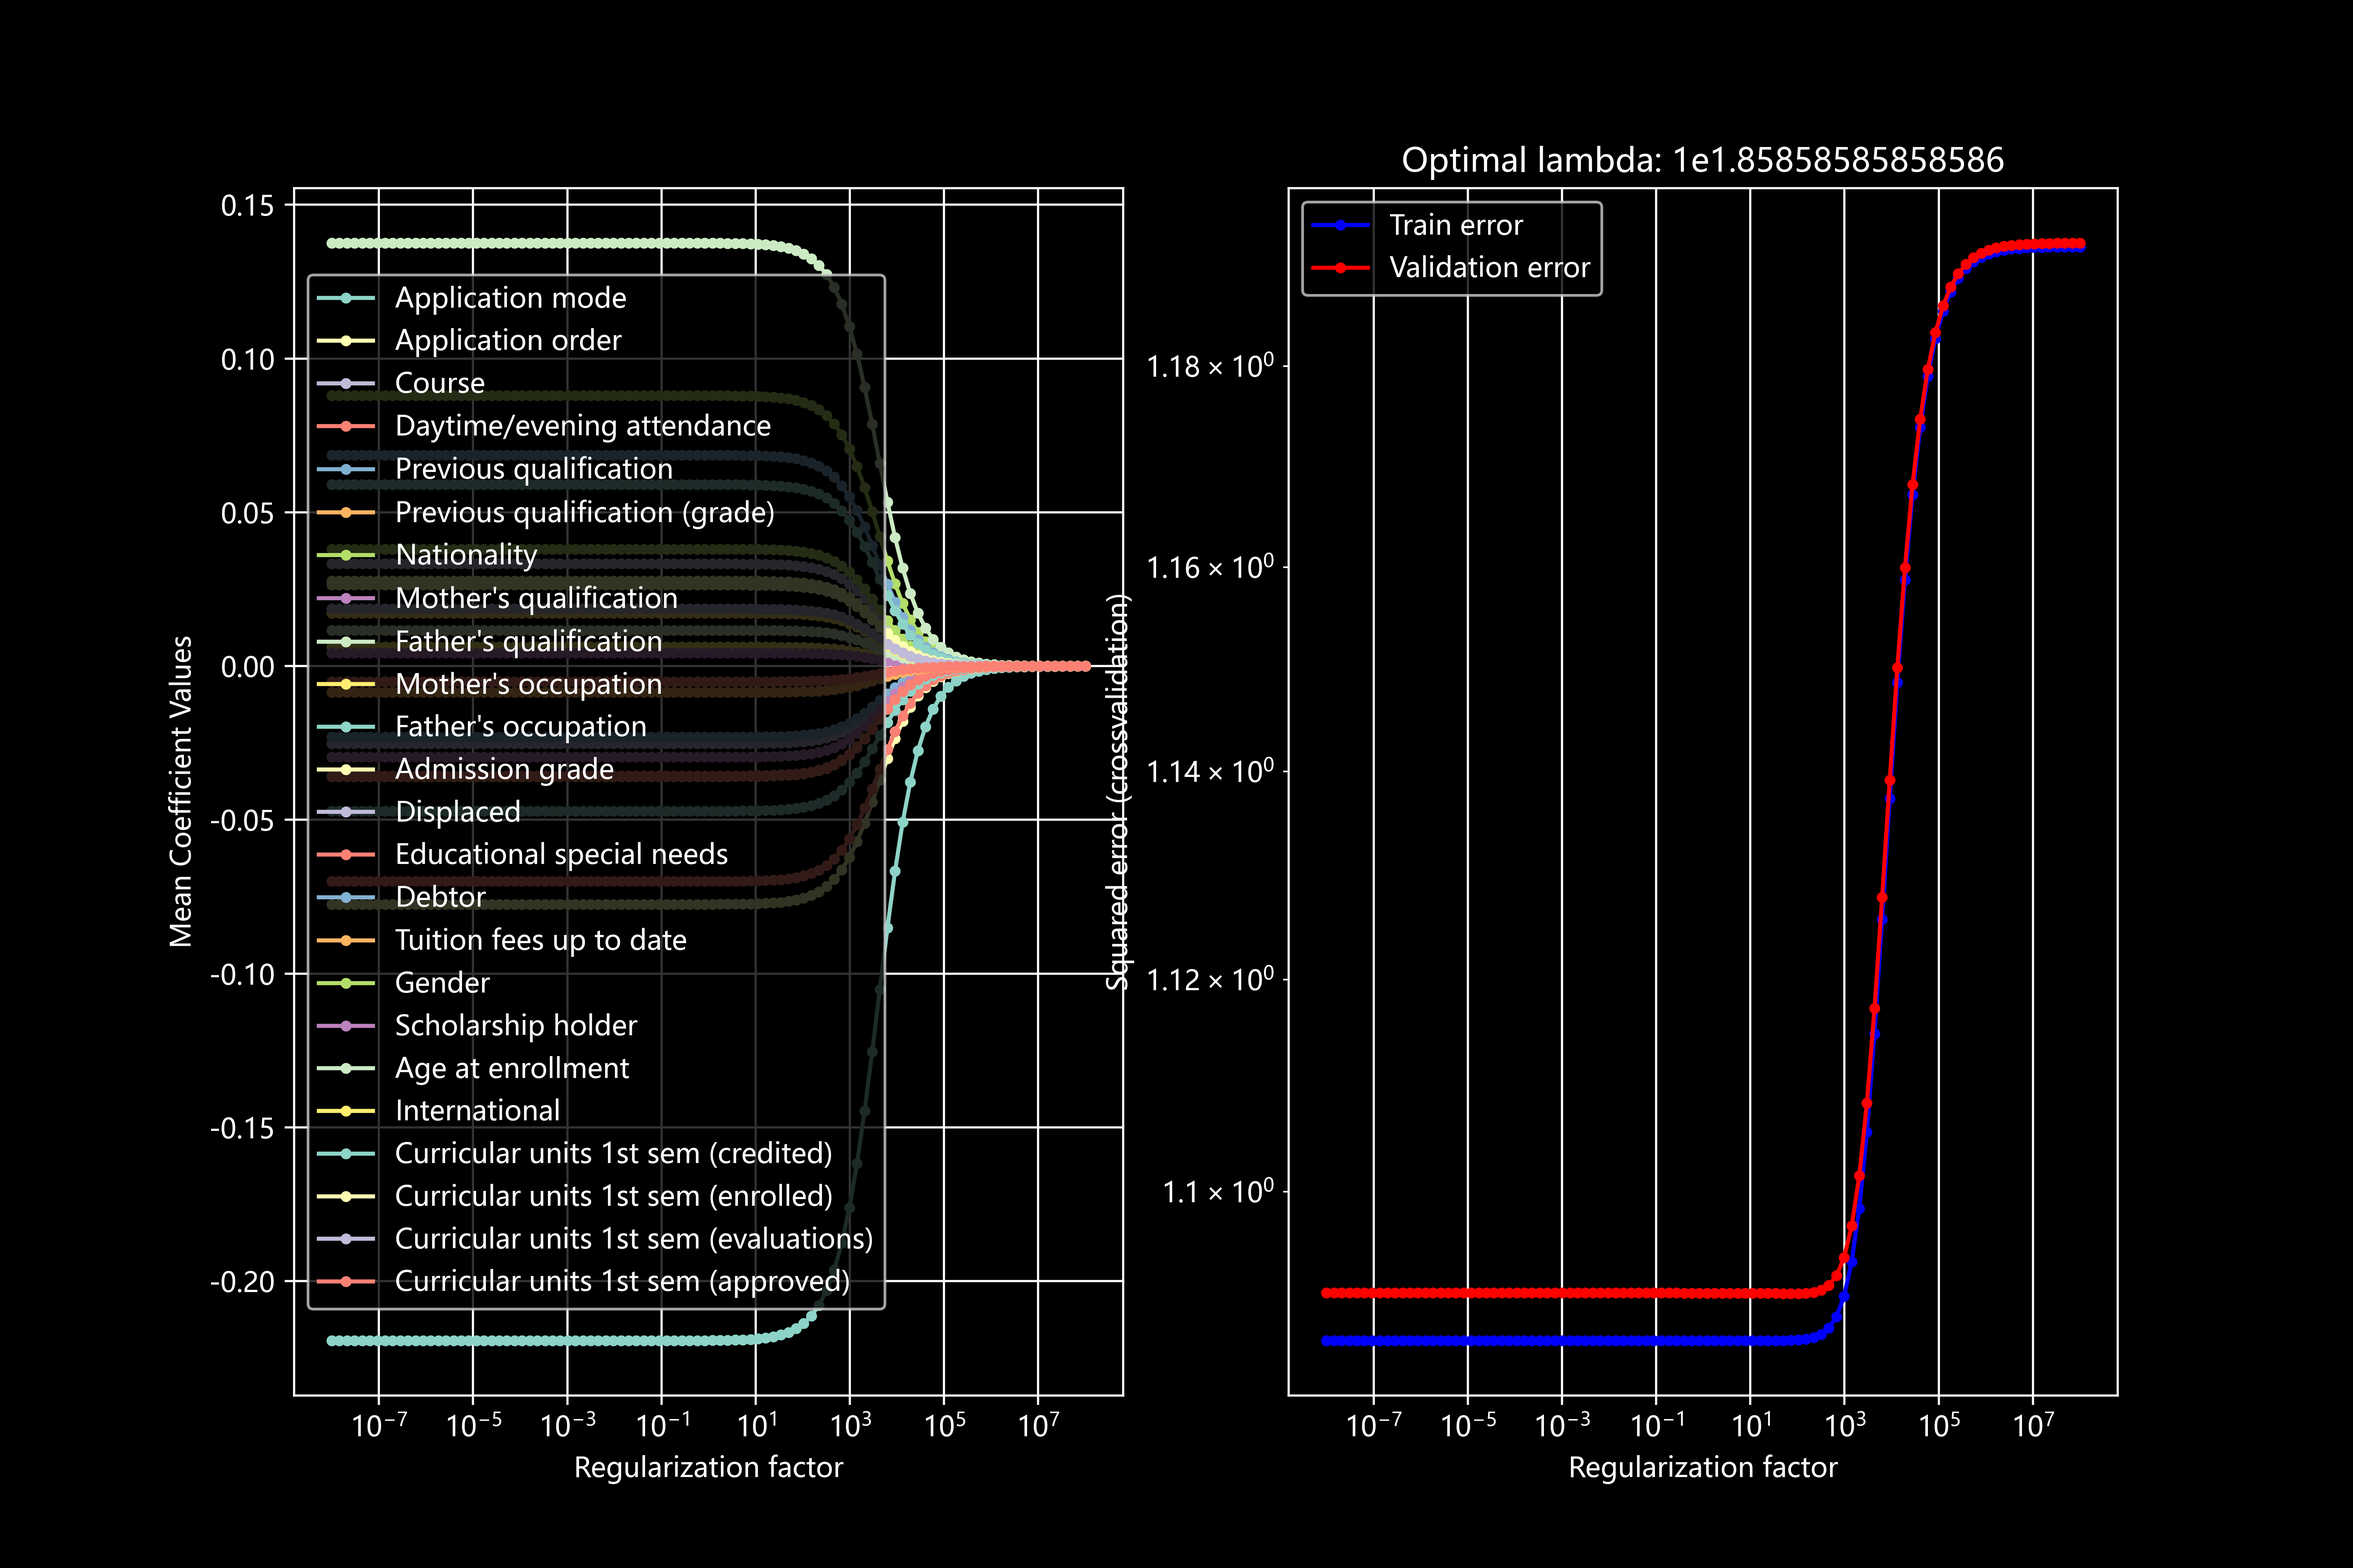
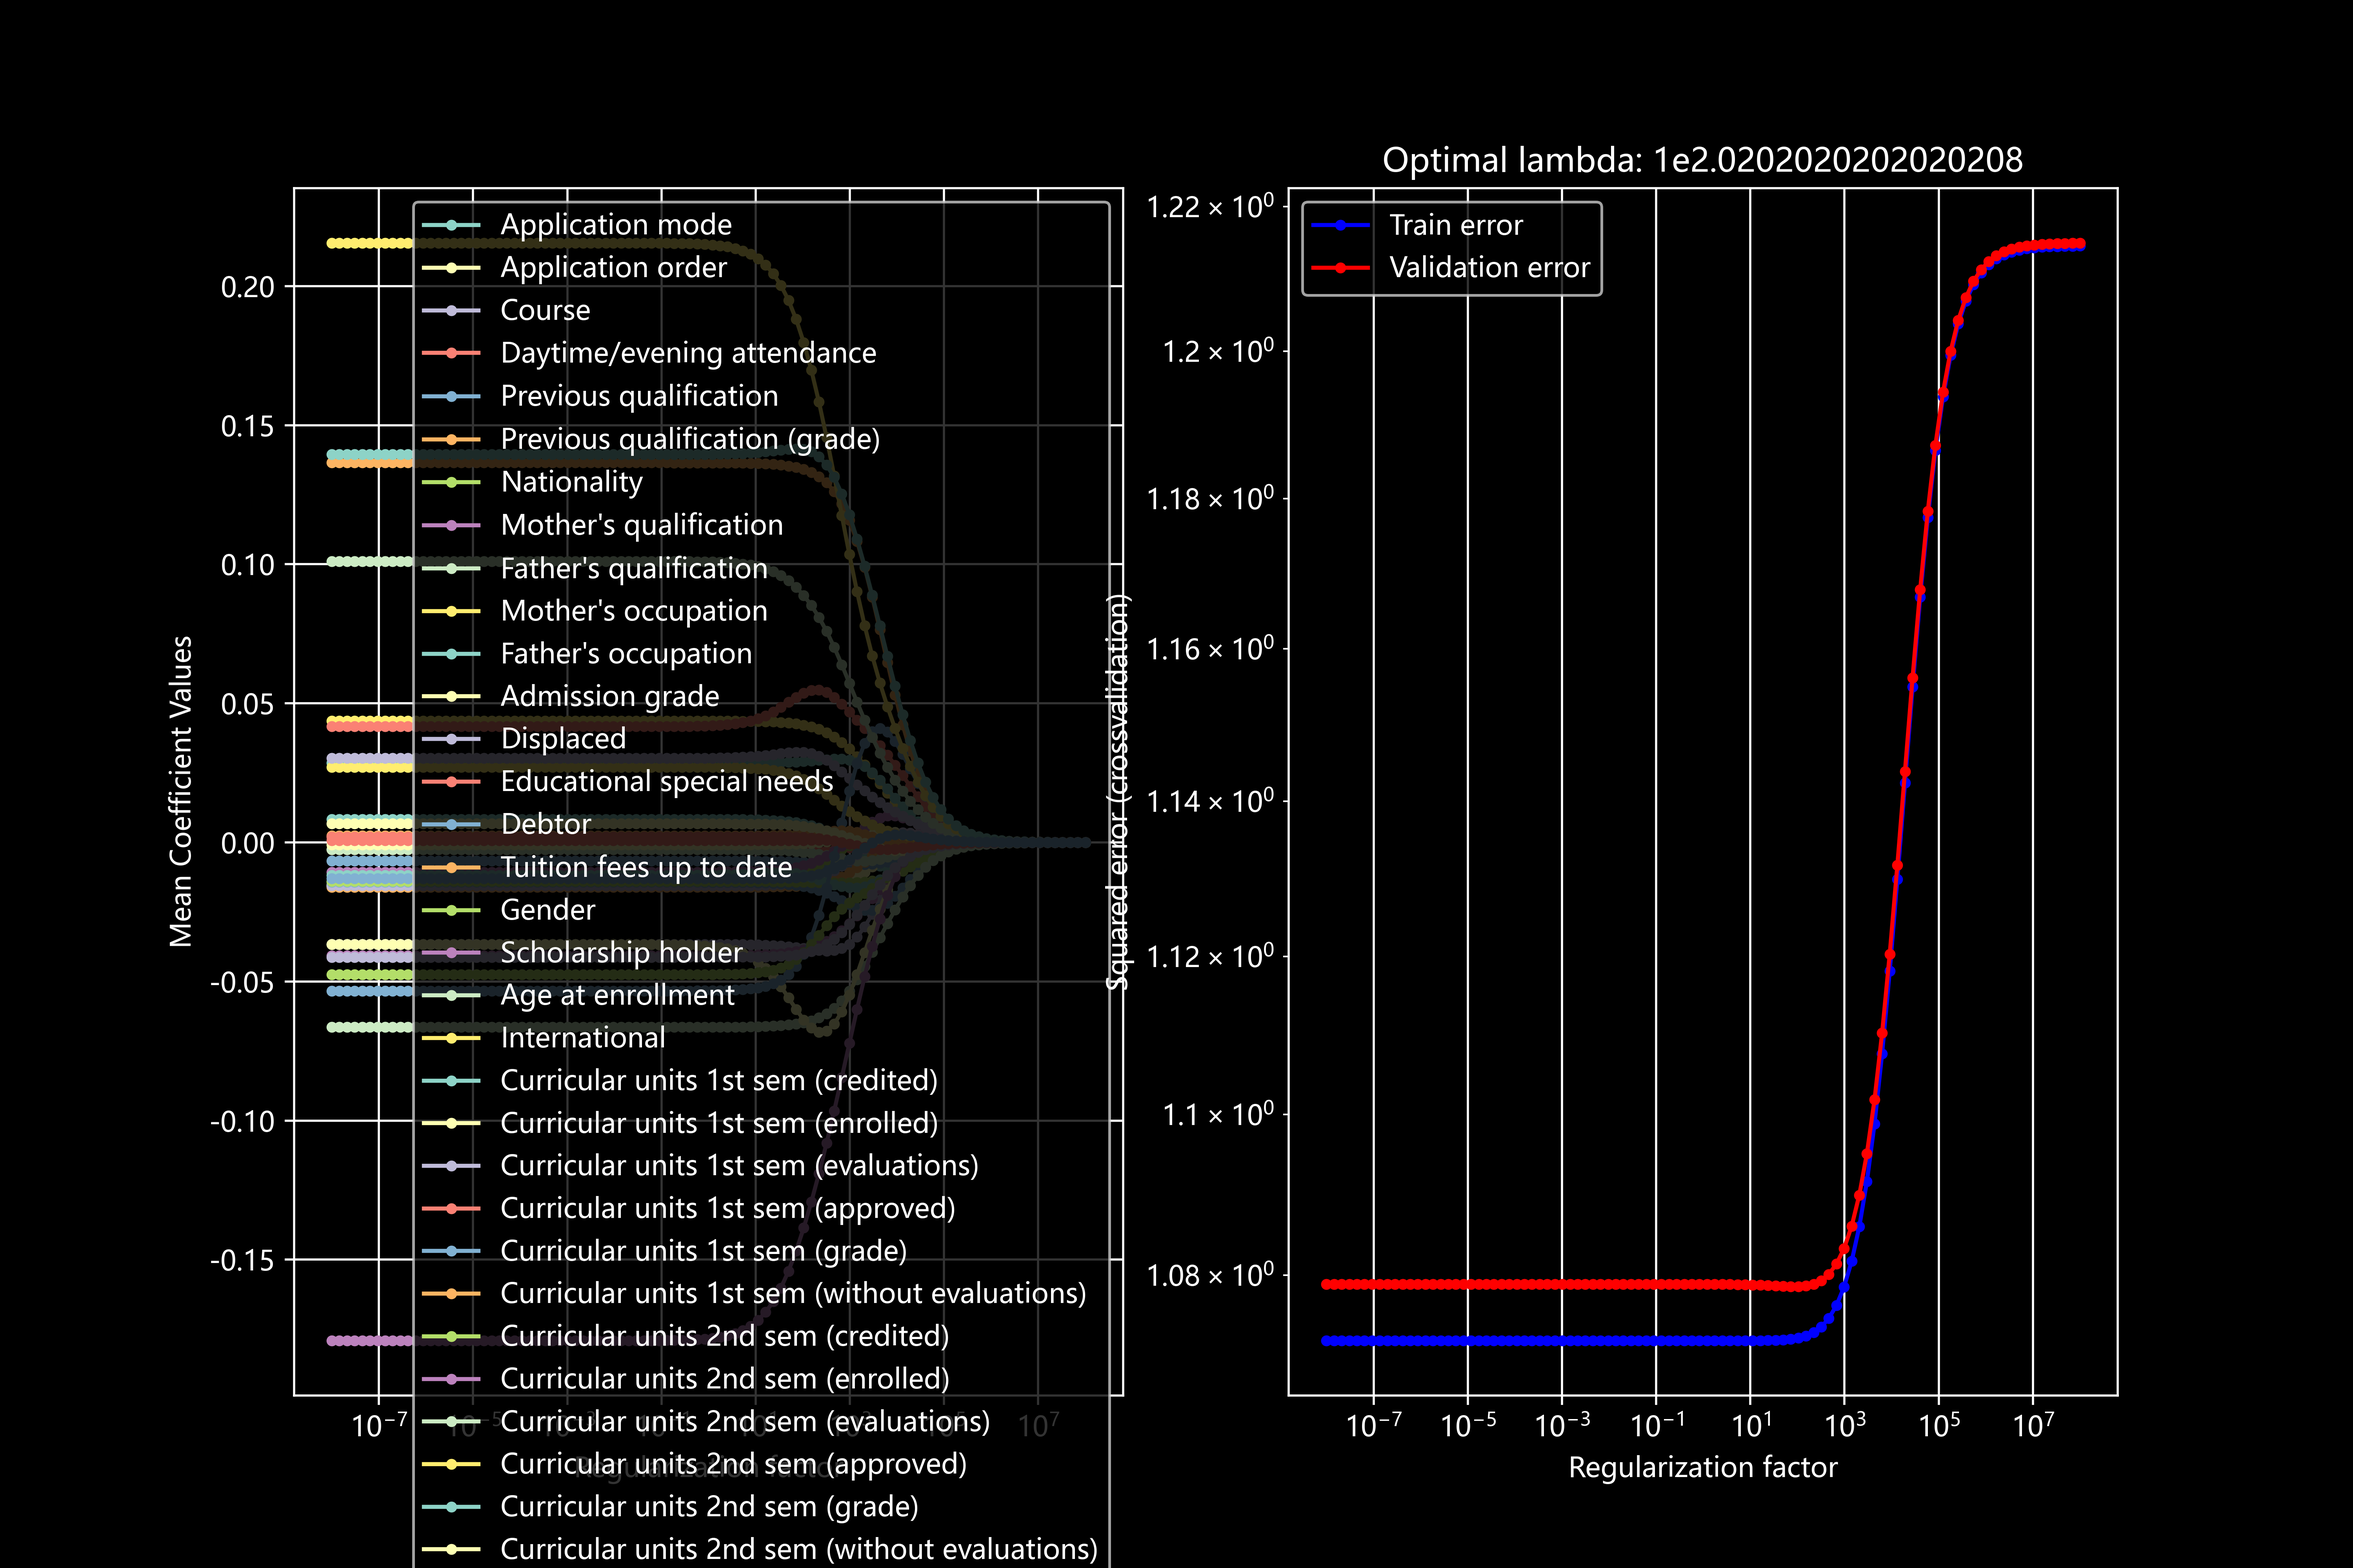
1

diff --git a/regression_a.py b/regression_a.py
@@ -41,18 +41,10 @@ for col_index in [0,1,3,5,6,7,8,9,10,11,12]:
 
 scaler = StandardScaler()
 normalized_data = scaler.fit_transform(data_matrix) # mean 0, standard deviation 1
-#############
-# apply PCA #
-#############
-U, S, Vt = np.linalg.svd(pd.DataFrame(normalized_data), full_matrices=False)
-n_components = 25
-pca_data = np.dot(U[:, :n_components], np.diag(S[:n_components]))
-scaler = StandardScaler()
-pca_data = scaler.fit_transform(pca_data) # mean 0, standard deviation 1
 
 #%%
 #Load data from matlab file
-X = pca_data
+X = normalized_data
 y = np.array(target_to_num)
 ## Crossvalidation
 # Create crossvalidation partition for evaluation
